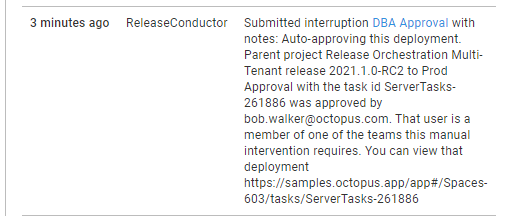
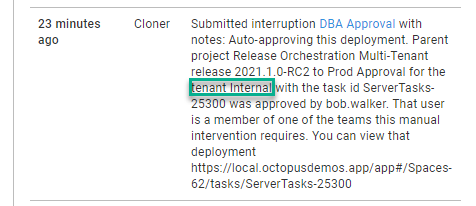
Wrapping up final draft with screenshots

Changed region(s): [[0.0, 0.0, 1.0, 1.0], [0.0588, 0.1748, 0.1471, 0.233]]

diff --git a/blog/2021-02/multi-tenancy-release-management/index.md b/blog/2021-02/multi-tenancy-release-management/index.md
@@ -377,22 +377,28 @@ Let's see this all in action.  First, let's deploy the **Internal** through **St
 
 ![prod approval environment for internal tenant](release-orchestartion-production-approval-environment.png)
 
-Now promote that release to **Production** for **Internal**.  The approvals are picked up from the **Prod Approval** environment.
+Now promote that release to **Production** for **Internal**.  The approvals are picked up from the **Prod Approval** environment for the **Internal** tenant.
 
 ![prod approval for internal tenant message](prod-approval-internal-tenant-message.png)
 
-Now that **Internal** has been promoted through **Prod Approval**, we can move onto **Ford** and **Starbucks**.  Promoting the release through **Staging** and onto **Production** will show the approvals will be picked up from the **Internal** tenant.
+Now that **Internal** has been promoted through **Prod Approval**, we can move onto **Ford** and **Starbucks**.  Promoting the release through **Staging** and onto **Production** will show the approvals will be picked up from the **Internal** tenant as well.
 
-Insert image here!
+![prod approval for ford tenant using the internal tenant](ford-deploy-to-prod-for-internal-tenant-approval.png)
 
 When the same release is deployed through the environments for **Coke**, we will see the approvals will come from the **Coke** tenant.
 
-Insert image here!
+![automatic for coke using approvals from coke](coca-cola-tenant-approval-from-coca-cola.png)
+
+:::success
+The step template looks for approvals for the current release only.  Creating a new release will require another round of approvals.  Even for a patch release, such as `2021.1.1`.  
+:::
+
+Approvals in a real-world setting are complex.  Hopefully with this functionality that process can be a bit smoother.  
 
 ## Conclusion
 
 This article covered some of the multi-tenancy scenarios for the [Deploy Child Octopus Deploy Project](https://library.octopus.com/step-templates/0dac2fe6-91d5-4c05-bdfb-1b97adf1e12e/actiontemplate-deploy-child-octopus-deploy-project) step template.  If you want to see more scenarios, please see [my previous article](LINK).  
 
-Multi-tenancy and all its weird and wonderful quirks when used in the real-world, was one of the primary drivers in creating this step template.  It is too much to ask anyone to keep track of which tenants require approval, what software packages they purchased, what environments they can deploy to.  Especially when dozens or 100s of tenants are involved, the deployment process should manage that complexity.  It reduces the number of manual errors a person will make.  Reducing errors makes customers happy, and in turn, makes them trust you more, which should hopefully make them more likely to want the latest release sooner.   
+Octopus Deploy's multi-tenancy feature was designed to make life easier for companies who install software on distinct infrastructure.  I see and hear about all the various quirks customers run into with that model.  The more customizations offerred, the harder it is to manage a deployment.  Those quirks was a primary driver in writing this step template.  A person shouldn't need to consult a spreadsheet to know what releases to deploy to what customers.  Something like that introduces the potential for errors because of a manual process.  That is the goal of this step template, to remove as much psycholocial weight from multi-tenant deployments as possible.
 
 I hope you find this step template useful for your multi-tenancy projects.  Until next time, Happy Deployments!
